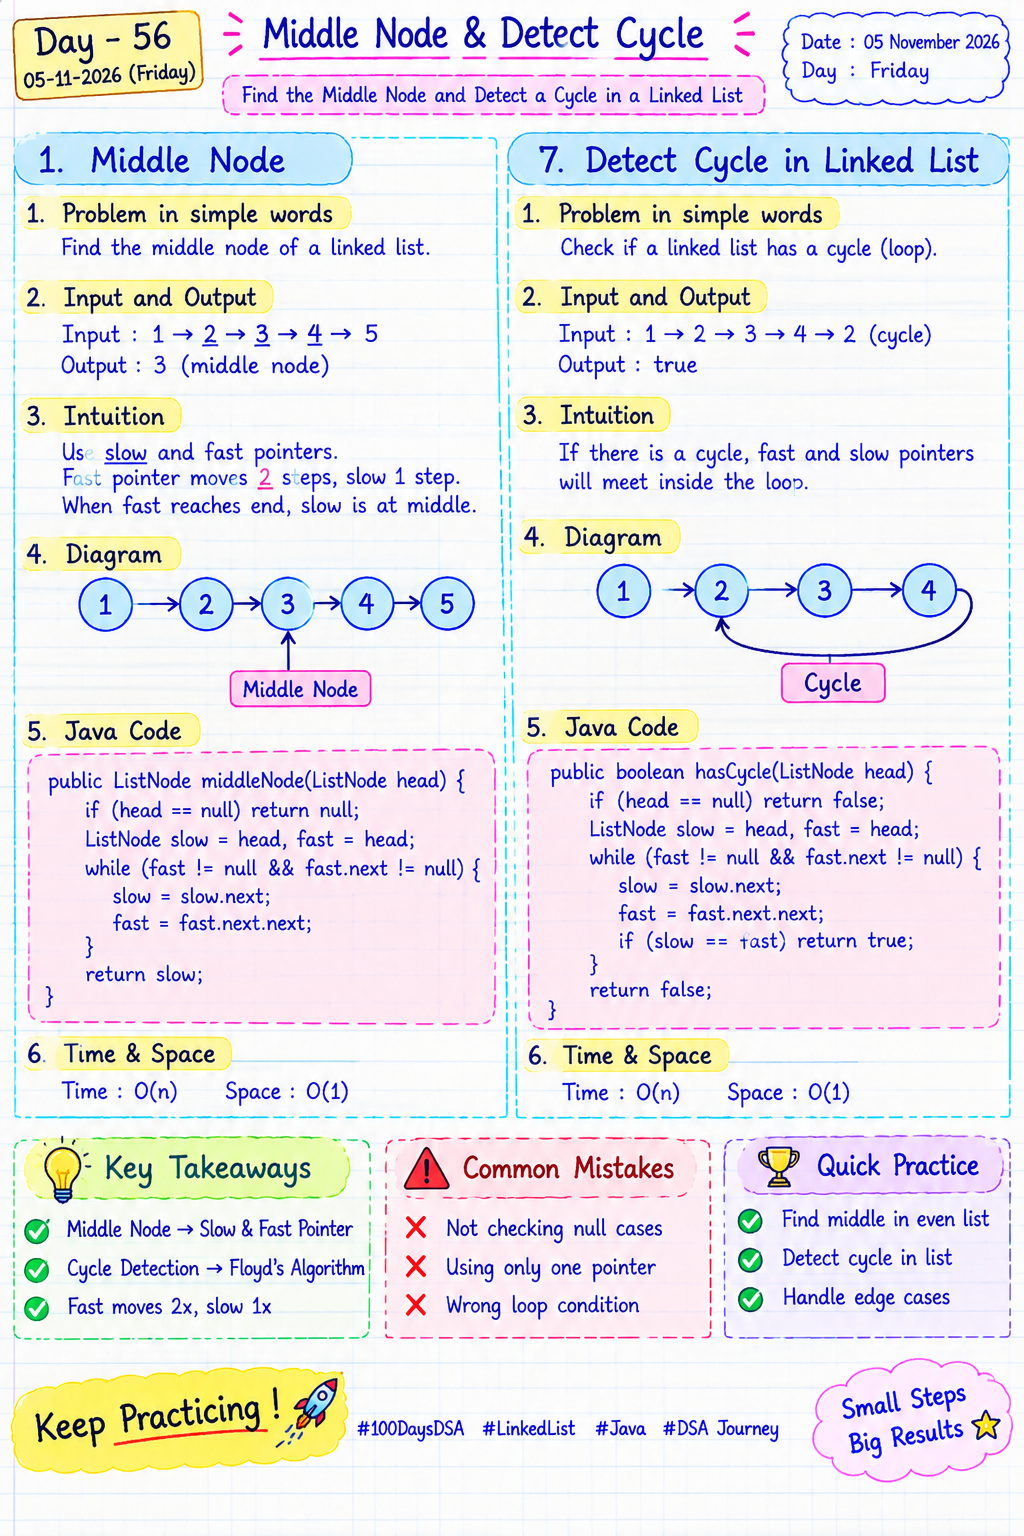
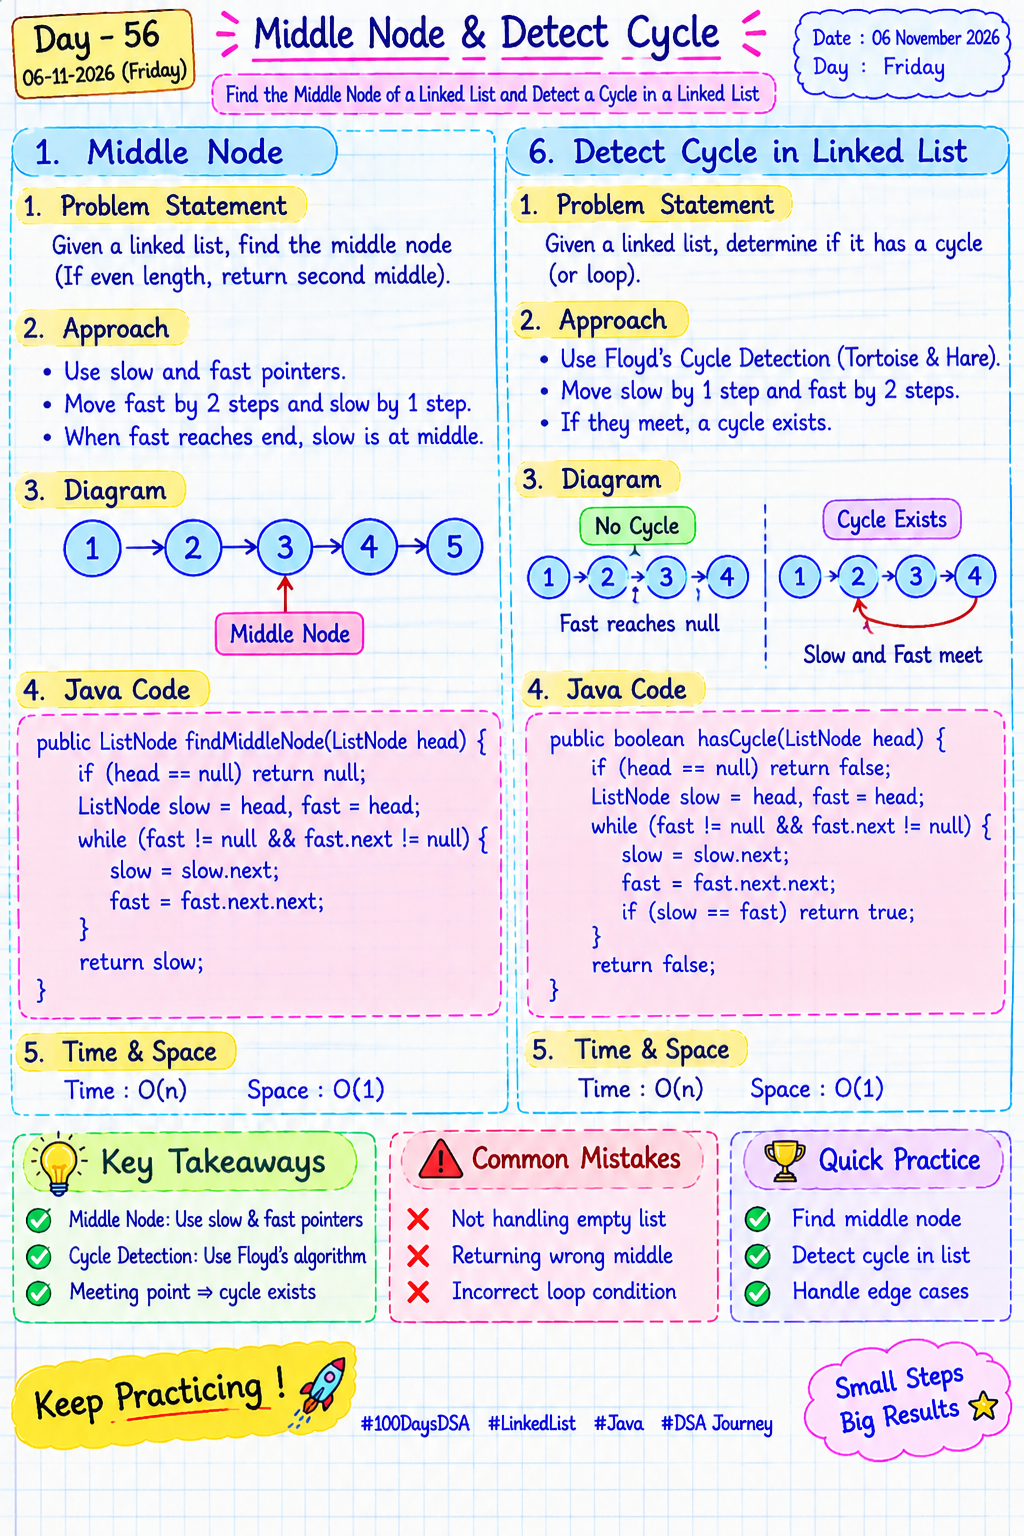
Day 57: Find Length of Cycle in a Linked List using Floyd's Algorithm

diff --git a/Day-057/P1_CycleLength/Main.java b/Day-057/P1_CycleLength/Main.java
@@ -1,0 +1,113 @@
+
+import java.util.Scanner;
+
+class Node {
+    int data;
+    Node next;
+
+    Node(int data) {
+        this.data = data;
+        this.next = null;
+    }
+}
+
+public class Main {
+
+    // Insert node at the end
+    public static Node insert(Node head, int data) {
+        Node newNode = new Node(data);
+
+        if (head == null) {
+            return newNode;
+        }
+
+        Node current = head;
+
+        while (current.next != null) {
+            current = current.next;
+        }
+
+        current.next = newNode;
+        return head;
+    }
+
+    // Find length of cycle
+    public static int findCycleLength(Node head) {
+        Node slow = head;
+        Node fast = head;
+
+        // Step 1: Detect cycle
+        while (fast != null && fast.next != null) {
+            slow = slow.next;
+            fast = fast.next.next;
+
+            // Cycle detected
+            if (slow == fast) {
+
+                // Step 2: Calculate cycle length
+                int count = 1;
+                Node current = slow.next;
+
+                while (current != slow) {
+                    count++;
+                    current = current.next;
+                }
+
+                return count;
+            }
+        }
+
+        return 0;
+    }
+
+    public static void main(String[] args) {
+        Scanner sc = new Scanner(System.in);
+
+        System.out.print("Enter number of nodes: ");
+        int n = sc.nextInt();
+
+        Node head = null;
+
+        System.out.println("Enter node values:");
+
+        for (int i = 0; i < n; i++) {
+            int data = sc.nextInt();
+            head = insert(head, data);
+        }
+
+        // Enter 0-based position where cycle starts.
+        // Enter -1 for no cycle.
+        System.out.print("Enter cycle starting position (-1 for no cycle): ");
+        int pos = sc.nextInt();
+
+        if (pos >= 0 && pos < n) {
+            Node current = head;
+            Node cycleNode = null;
+            Node last = null;
+
+            int index = 0;
+
+            while (current != null) {
+                if (index == pos) {
+                    cycleNode = current;
+                }
+
+                last = current;
+                current = current.next;
+                index++;
+            }
+
+            last.next = cycleNode;
+        } else if (pos != -1) {
+            System.out.println("Invalid cycle position.");
+            sc.close();
+            return;
+        }
+
+        int length = findCycleLength(head);
+
+        System.out.println("Length of cycle: " + length);
+
+        sc.close();
+    }
+}
